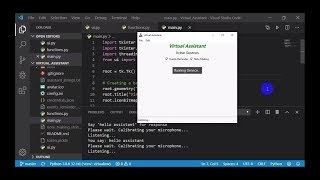
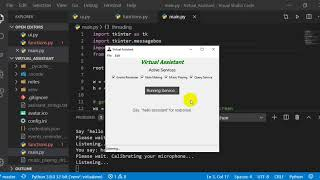
Change youtube new video link with adding services and sreenshot

diff --git a/README.md b/README.md
@@ -83,7 +83,7 @@ If it's too sensitive, the microphone may be picking up a lot of ambient noise.
 If it is too insensitive, the microphone may be rejecting speech as just noise.
 
 ### Watch output on YouTube:
-[![Virtual Voice Assistant Image](https://github.com/almasud/Virtual_Voice_Assistant/blob/master/screenshot.jpg)](https://youtu.be/D5ClCGMC0GU)
+[![Virtual Assistant Image](https://github.com/almasud/Virtual_Voice_Assistant/blob/master/screenshot.jpg)](https://youtu.be/yjxzA8449qs)
 
 ##### Thank you all and happy codding... 
 [Abdullah Almasud](https://facebook.com/almasud.arm)
